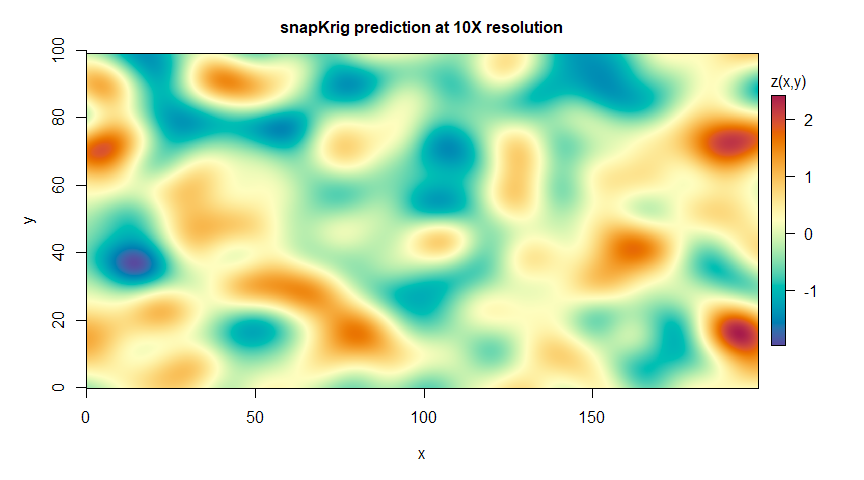
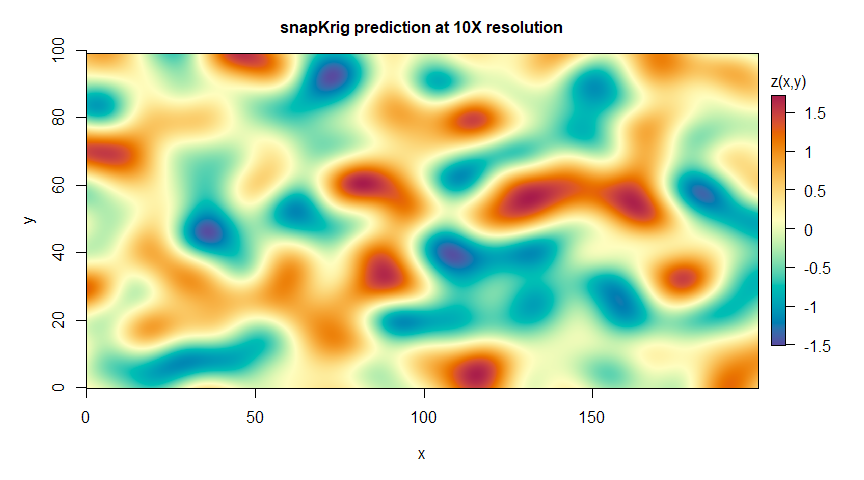
improvements to example and added timer

diff --git a/README.md b/README.md
@@ -8,9 +8,9 @@
 
 snapKrig is a computationally lean implementation of a 2-dimensional
 spatial correlation model for gridded data. By restricting to models
-with (separable) Kronecker covariance, the package speeds computations
-on certain likelihood and kriging problems (orders of magnitude
-difference) compared to alternatives like `gstat`, `fields`, `geoR`,
+with (separable) Kronecker covariance, the package can speed
+computations on certain likelihood and kriging problems by orders of
+magnitude compared to alternatives like `gstat`, `fields`, `geoR`,
 `spatial`, and `LatticeKrig`.
 
 ## Installation
@@ -41,9 +41,11 @@ g_empty
 Generate some random auto-correlated data for this grid
 
 ``` r
-# simulate data on a square grid and plot
+# simulate data on a square grid
 pars = sk_pars(g_empty)
 g_sim = sk_sim(g_empty, pars)
+
+# plot
 plot(g_sim, main='snapKrig simulation')
 ```
 
@@ -57,19 +59,32 @@ g_sim
 Downscale and filter noise by simple kriging
 
 ``` r
+# downscale and predict, timing computations
+t_start = Sys.time()
 g_down = sk_rescale(g_sim, down=10)
 g_pred = sk_cmean(g_down, pars, X=0)
 #> 100 x 200 complete sub-grid detected
+
+# print time elapsed in computation
+t_end = Sys.time()
+t_end - t_start
+#> Time difference of 0.5442128 secs
+```
+
+``` r
+# plot grid
 plot(g_pred, main='snapKrig prediction at 10X resolution')
 ```
 
-<img src="man/figures/README-intro_down-1.png" width="75%" style="display: block; margin: auto;" />
+<img src="man/figures/README-intro_down_plot-1.png" width="75%" style="display: block; margin: auto;" />
 
 ``` r
+
+# print summary
 summary(g_pred)
 #> complete sk grid
 #> 1973081 points
-#> range [-1.97, 2.41]
+#> range [-2.40, 2.39]
 #> ..............................
 #> dimensions : 991 x 1991
 #> resolution : 0.1 x 0.1
@@ -81,8 +96,8 @@ summary(g_pred)
 snapKrig’s computational efficiency makes it useful in situations where
 interpolation or down-scaling would pose a problem due to long
 computation times and/or high memory demands. Such problems are common
-when working with geo-referenced data in earth sciences. Features
-include:
+when working with geo-referenced data in earth sciences. snapKrig’s
+features include:
 
 - anisotropic Gaussian processes on 2-dimensional regular grids for a
   choice of covariance kernels
